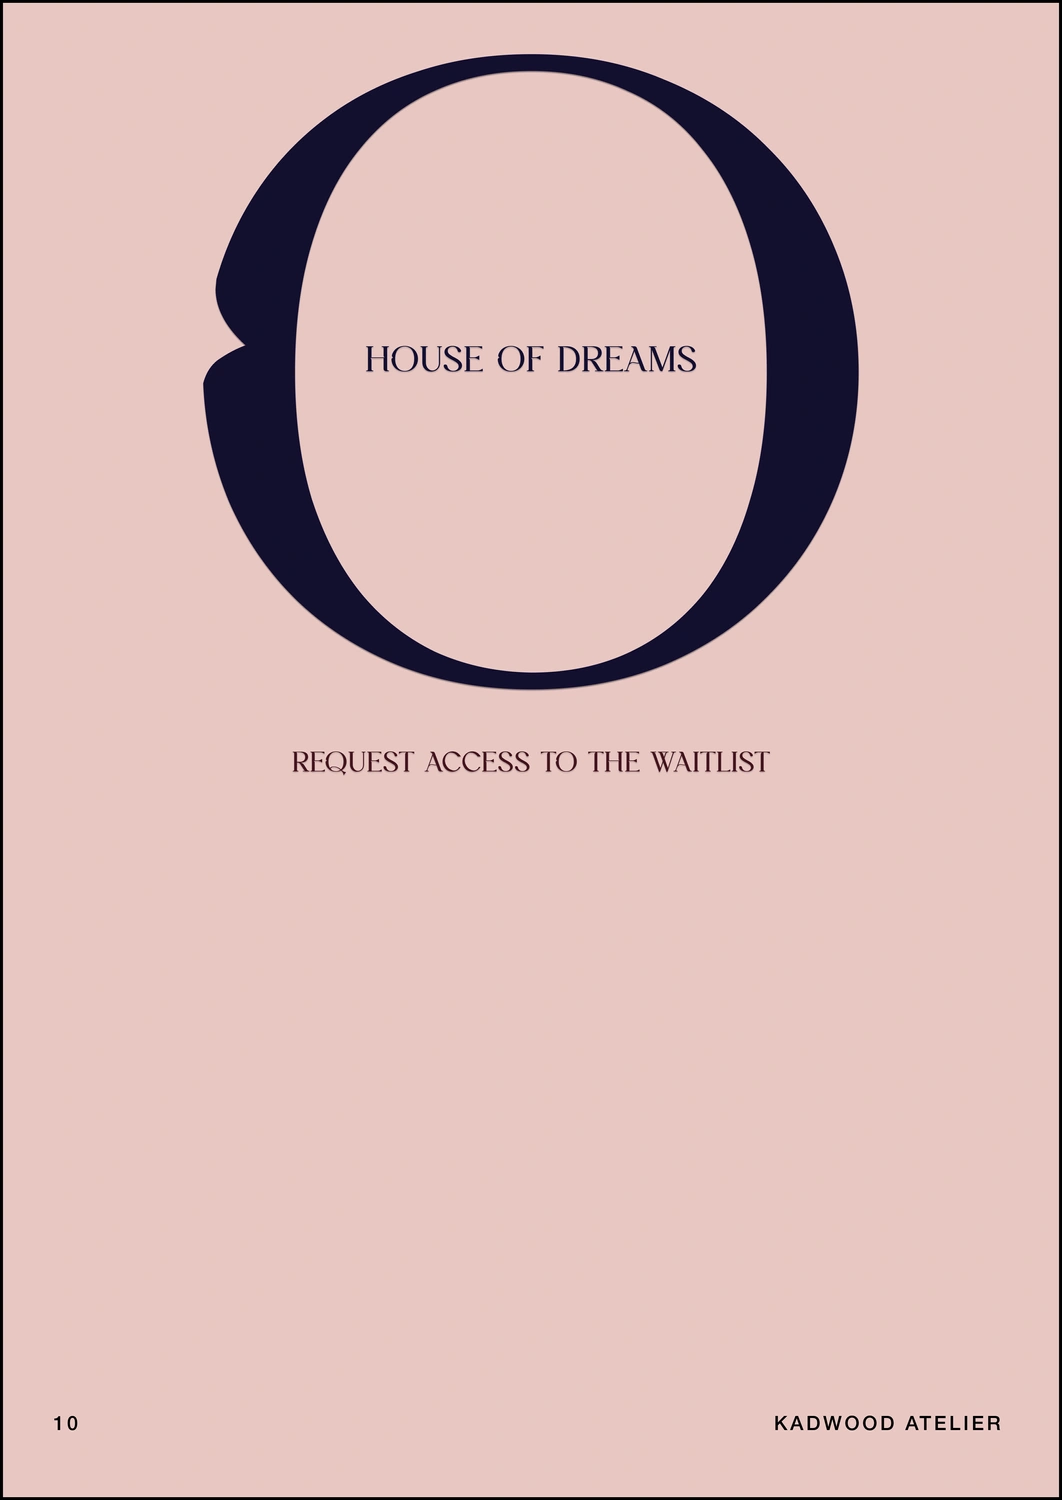
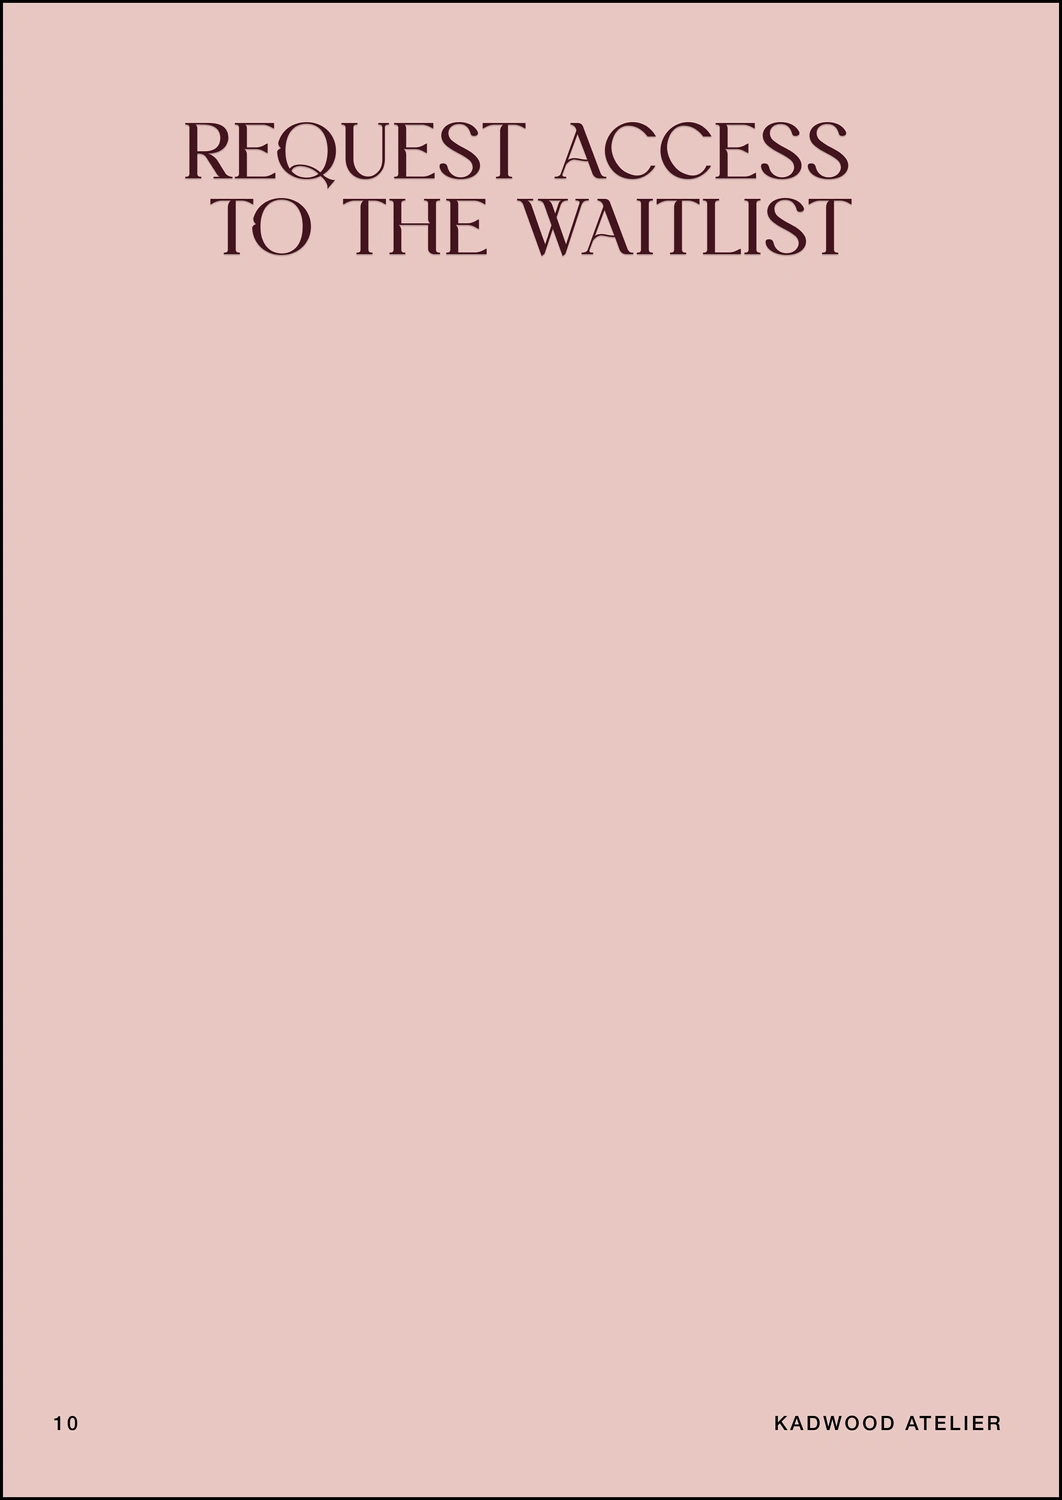
Updated form and increased font

diff --git a/index.html b/index.html
@@ -43,9 +43,9 @@ body {
 .overlay-div {
     position: absolute;
     width: 80%;
-    height: 36%;
+    height: 60%;
     background-color: #E8C7C3;
-    top: 64%;
+    top: 40%;
     left: 50%;
     transform: translate(-50%, -25%);
 }
